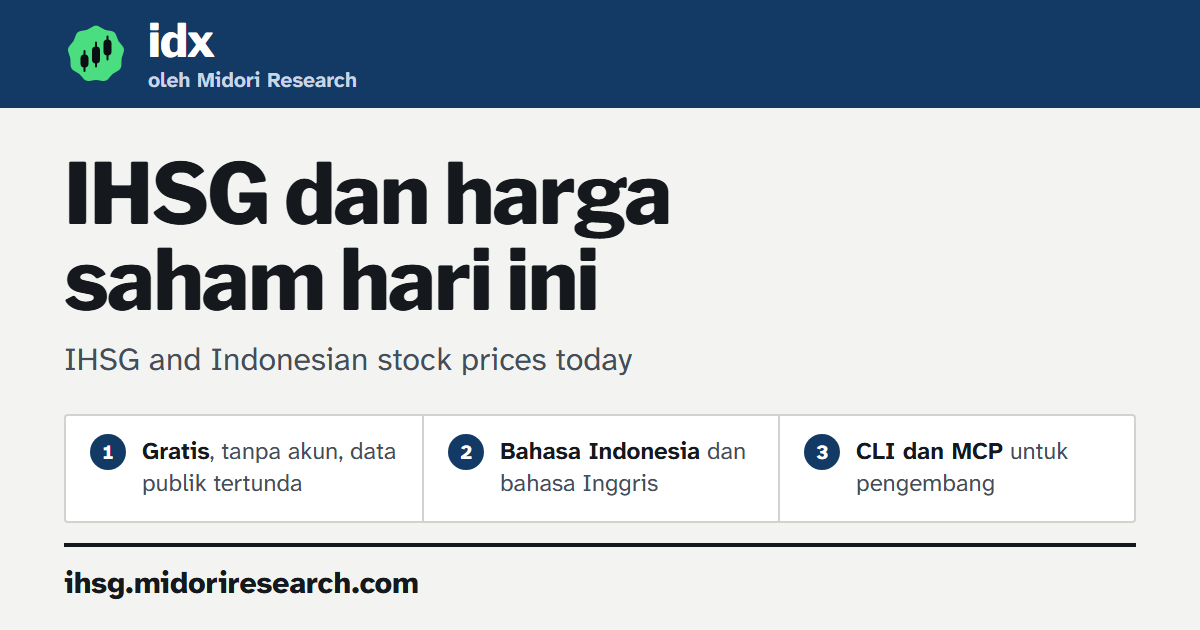
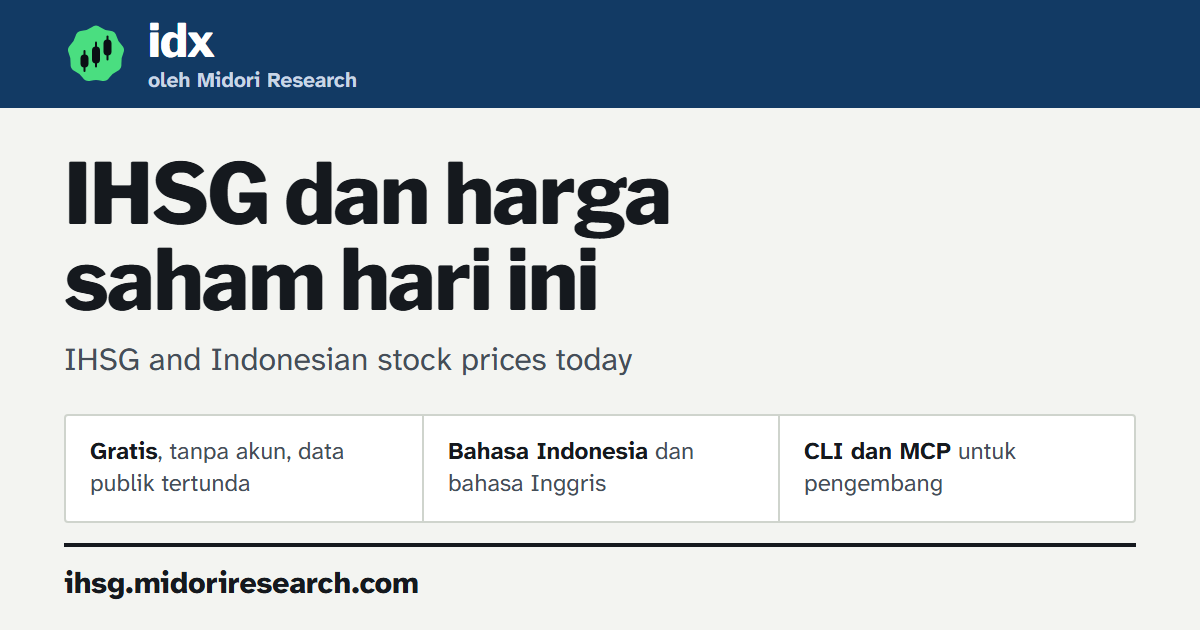
fix(web): keep 18px text on phones and drop the last stripes and numerals
Body text stays at 18px under 48rem as well (the root no longer drops to
17px), which the brief sets as the floor; every page still fits at 360px.
The selected search suggestion and the current docs page are marked with
a tint and a full ring or weight instead of a bar on one edge, and the
share card's three lines lose their numbered discs, as the notes did.
og.png is re-rendered and keeps its embedded origin.

Changed region(s): [[0.0617, 0.6937, 0.3392, 0.7841], [0.37, 0.6937, 0.6167, 0.7841], [0.6475, 0.6937, 0.8942, 0.7841]]

diff --git a/web/public/docs.css b/web/public/docs.css
@@ -4,7 +4,7 @@
    shell (navy masthead, navy section bands, white sheets on the newsprint
    ground, the signed footer) are copied here from public/styles.css; keep the
    two in step. Long-form text reads at 18px on a measure of about 66
-   characters; every ## section opens with a numbered navy band, as the home
+   characters; every ## section opens with a navy band, as the home
    page's modules do; code sits on the band colour; tables are the home page's
    tables, a 2px ink rule under the head and hairlines between rows. Day by
    default, night when the device asks for it. */
@@ -142,7 +142,7 @@ b, strong { font-weight: 700; }
 .pages a .t { overflow-wrap: anywhere; }
 .pages a:hover { background: var(--band); }
 .pages a:hover .t { text-decoration: underline; text-decoration-thickness: 1px; text-underline-offset: 0.18em; }
-.pages a[aria-current="page"] { background: var(--navy-soft); box-shadow: inset 4px 0 var(--mark); font-weight: 700; }
+.pages a[aria-current="page"] { background: var(--navy-soft); font-weight: 700; }
 .pages .toc { list-style: none; margin: 2px 0 8px; padding: 0; }
 .pages .toc a { padding: 5px 18px 5px 32px; color: var(--ink-2); font-size: 0.85rem; }
 .pages .toc a:hover { color: var(--ink); }
@@ -255,7 +255,6 @@ b, strong { font-weight: 700; }
 }
 @media (max-width: 48rem) {
   :root { --gutter: 16px; }
-  html { font-size: 106.25%; }
   .masthead .wrap { min-height: 0; padding-top: 6px; gap: 0 12px; }
   .brand img { width: 32px; height: 32px; }
   .nav { order: 3; flex-basis: 100%; margin: 0 calc(-1 * var(--gutter)); padding: 0 calc(var(--gutter) - 14px); overflow-x: auto; border-top: 1px solid rgb(255 255 255 / 0.16); }
@@ -268,7 +267,6 @@ b, strong { font-weight: 700; }
   .doc-body > h1 + blockquote { font-size: 1.1rem; }
   .doc-body h2 { margin-top: 36px; gap: 10px; font-size: 1.15rem; }
   .doc-body h3 { margin-top: 30px; font-size: 1.1rem; }
-  .doc-body h2 { --no: 32px; }
   .doc-body pre { padding: 12px 14px; font-size: 0.8rem; }
   /* On a phone a many-column table scrolls rather than crushing its columns;
      the last column, the prose one in these docs, keeps a readable width. */

diff --git a/web/og/card.html b/web/og/card.html
@@ -40,13 +40,9 @@
     flex: none; display: grid; grid-template-columns: repeat(3, minmax(0, 1fr));
     margin: 34px 64px 0; background: var(--sheet); border: 2px solid var(--rule); border-radius: 4px;
   }
-  .lines p { display: flex; gap: 16px; align-items: flex-start; padding: 20px 24px 22px; font-size: 24px; line-height: 1.3; color: var(--ink-2); }
+  .lines p { padding: 20px 24px 22px; font-size: 24px; line-height: 1.3; color: var(--ink-2); }
   .lines p + p { border-left: 2px solid var(--rule); }
   .lines p b { color: var(--ink); }
-  .lines p::before {
-    content: attr(data-n); flex: none; width: 36px; height: 36px; margin-top: -2px; display: grid; place-items: center;
-    border-radius: 50%; background: var(--navy); color: var(--on-navy); font-size: 20px; font-weight: 800;
-  }
 
   .sign { margin: auto 64px 0; padding: 16px 0 28px; border-top: 4px solid var(--ink); font-size: 30px; font-weight: 800; letter-spacing: -0.005em; }
 </style>
@@ -61,9 +57,9 @@
     <p class="en" lang="en">IHSG and Indonesian stock prices today</p>
   </section>
   <div class="lines">
-    <p data-n="1"><span><b>Gratis</b>, tanpa akun, data publik tertunda</span></p>
-    <p data-n="2"><span><b>Bahasa Indonesia</b> dan bahasa Inggris</span></p>
-    <p data-n="3"><span><b>CLI dan MCP</b> untuk pengembang</span></p>
+    <p><span><b>Gratis</b>, tanpa akun, data publik tertunda</span></p>
+    <p><span><b>Bahasa Indonesia</b> dan bahasa Inggris</span></p>
+    <p><span><b>CLI dan MCP</b> untuk pengembang</span></p>
   </div>
   <footer class="sign">ihsg.midoriresearch.com</footer>
 </body>

diff --git a/web/public/styles.css b/web/public/styles.css
@@ -184,7 +184,7 @@ kbd {
 .gate-list .key mark { background: var(--hl); color: inherit; }
 .gate-list .what { color: var(--ink-2); white-space: nowrap; overflow: hidden; text-overflow: ellipsis; }
 .gate-list li:hover { background: var(--band); }
-.gate-list li[aria-selected="true"] { background: var(--navy-soft); box-shadow: inset 4px 0 var(--navy); }
+.gate-list li[aria-selected="true"] { background: var(--navy-soft); box-shadow: inset 0 0 0 2px var(--navy); }
 
 /* ---- modules and section bands ------------------------------------------- */
 .module { background: var(--sheet); border: 1px solid var(--rule); border-radius: var(--radius); min-width: 0; display: flex; flex-direction: column; scroll-margin-top: 12px; }
@@ -593,7 +593,6 @@ pre.json { max-height: 30rem; overflow: auto; padding: 12px 16px; border-top: 1p
 }
 @media (max-width: 48rem) {
   :root { --gutter: 16px; }
-  html { font-size: 106.25%; }
   .masthead .wrap { min-height: 0; padding-top: 6px; gap: 0 12px; }
   .brand img { width: 32px; height: 32px; }
   .nav { order: 3; flex-basis: 100%; margin: 0 calc(-1 * var(--gutter)); padding: 0 calc(var(--gutter) - 14px); overflow-x: auto; border-top: 1px solid rgb(255 255 255 / 0.16); }
